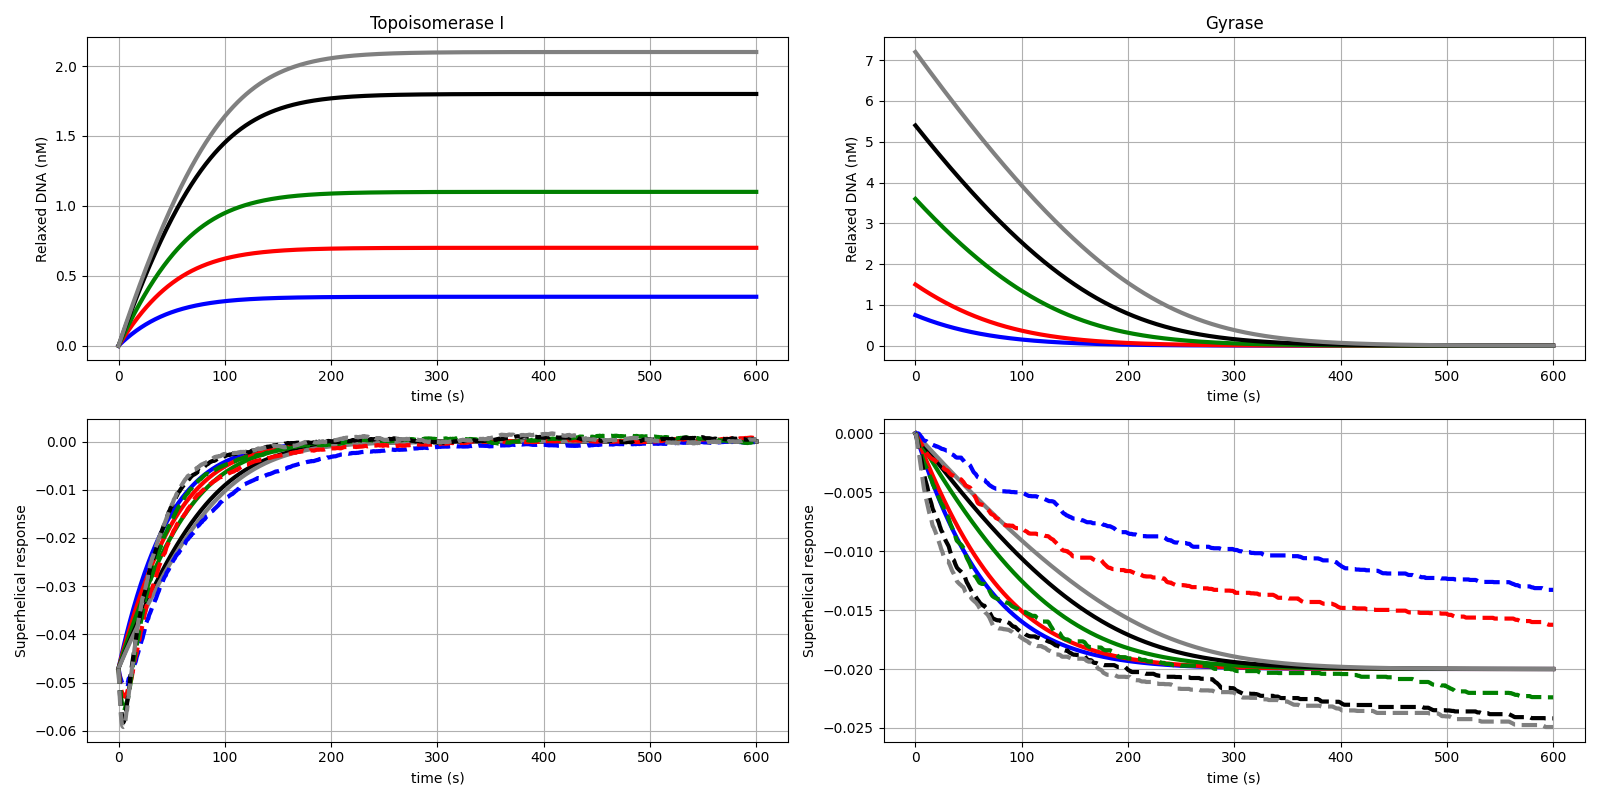
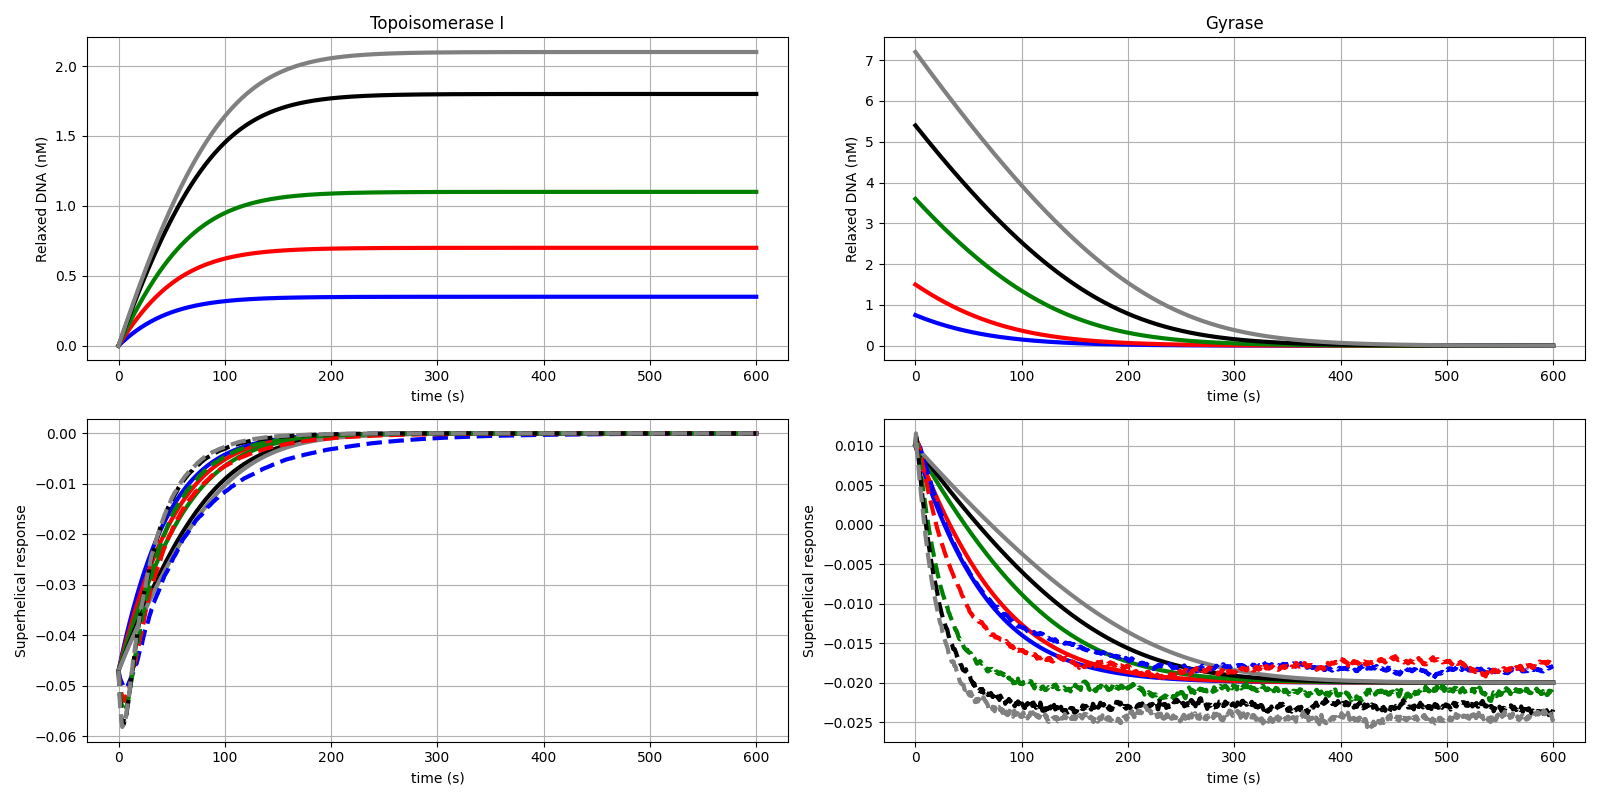
Topoisomerase calibration is ready and works. Also the new effect models TopoisomeraseLinearEffect describe more accurately experimental results, just needs to do some more research regarding initial parameters (read the TODO's). And should continue tidying up circuit.py

diff --git a/TORCphysics/calibration/topo_stochastic/Experimental_calibration/Linear_Effect/gyrase_calibration.py b/TORCphysics/calibration/topo_stochastic/Experimental_calibration/Linear_Effect/gyrase_calibration.py
@@ -1,5 +1,5 @@
 import numpy as np
-from hyperopt import tpe, hp, fmin
+from hyperopt import tpe, hp, fmin, Trials
 import pandas as pd
 import topo_calibration_tools as tct
 import sys
@@ -43,31 +43,33 @@ continuation = False
 mm = 'uniform'
 
 # For parallelization and calibration
-n_simulations = 120
-tests = 120  # number of tests for parametrization
+n_simulations = 48 #96 #120
+tests = 150  # number of tests for parametrization
 
 # Molecule/model to calibrate
 # -----------------------------------
 mol_name = 'gyrase'
 mol_type = 'environmental'
 mol_binding_model_name = 'GyraseRecognition'
-mol_effect_model_name = 'GyraseUniform'
+mol_effect_model_name = 'TopoisomeraseLinearEffect'
 mol_unbinding_model_name = 'PoissonUnBinding'
+mol_sigma0 = -0.02
+
 
 # RANGES FOR RANDOM SEARCH
 # -----------------------------------
 # Gyrase ranges
 file_out = mol_name + '_calibration'
 k_on_min = 0.001
-k_on_max = 0.01
-k_off_min = 0.1
+k_on_max = 0.05
+k_off_min = 0.001
 k_off_max = 1.0
 k_cat_min = -20.0  # Ranges to vary k_cat
-k_cat_max = -5.0
-width_min = 0.001
-width_max = 0.05
-threshold_min = 0.001
-threshold_max = 0.05
+k_cat_max = 20.0#-1.0
+width_min = 0.0  #0.001
+width_max = 1.0
+threshold_min = 0.0  # 0.001
+threshold_max = 1.0
 
 
 # Optimization functions
@@ -94,10 +96,12 @@ def objective_function(params):
     binding_model_name = mol_binding_model_name
     binding_oparams = {'k_on': params['k_on'], 'width': params['width'], 'threshold': params['threshold']}
     effect_model_name = mol_effect_model_name
-    effect_oparams = {'k_cat': params['k_cat']}
+    effect_oparams = {'k_cat': params['k_cat'], 'sigma0': mol_sigma0}
     unbinding_model_name = mol_unbinding_model_name
     unbinding_oparams = {'k_off': params['k_off']}
     concentration = mol_concentration
+
+    #  print('Params testing:', params)
 
     topo_variation = {'name': name, 'object_type': object_type,
                       'binding_model_name': binding_model_name, 'binding_oparams': binding_oparams,
@@ -166,6 +170,8 @@ original_stdout = sys.stdout
 # Define the file where you want to save the output
 output_file_path = file_out + '.info'
 
+trials = Trials()
+
 # Open the file in write mode
 with open(output_file_path, 'w') as f:
     # Redirect the standard output to the file
@@ -183,7 +189,8 @@ with open(output_file_path, 'w') as f:
         fn=objective_function,  # Objective Function to optimize
         space=space,  # Hyperparameter's Search Space
         algo=tpe.suggest,  # Optimization algorithm (representative TPE)
-        max_evals=tests  # Number of optimization attempts
+        max_evals=tests,  # Number of optimization attempts
+        trials=trials
     )
 
     print(" ")
@@ -192,3 +199,14 @@ with open(output_file_path, 'w') as f:
 
 best_df = pd.DataFrame.from_dict([best])
 best_df.to_csv(file_out + '.csv', index=False, sep=',')
+
+#vals_dict = {}
+#my_dict = {'name': 'John', 'age': 30, 'city': 'New York'}
+
+#for key, value in trials.vals.items():
+
+#    print(f"{key}: {value}")
+
+#for
+vals_df = pd.DataFrame(data =trials.vals)
+vals_df.to_csv(file_out + '_space.csv', index=False, sep=',')

diff --git a/TORCphysics/calibration/topo_stochastic/Experimental_calibration/Linear_Effect/plot_calibration.py b/TORCphysics/calibration/topo_stochastic/Experimental_calibration/Linear_Effect/plot_calibration.py
@@ -45,8 +45,8 @@ n_simulations = 120
 topoI_name = 'topoI'
 topoI_type = 'environmental'
 topoI_binding_model_name = 'TopoIRecognition'
-#topoI_effect_model_name = 'TopoisomeraseLinearEffect'
-topoI_effect_model_name = 'TopoisomeraseLinearRandEffect'
+topoI_effect_model_name = 'TopoisomeraseLinearEffect'
+#topoI_effect_model_name = 'TopoisomeraseLinearRandEffect'
 topoI_unbinding_model_name = 'PoissonUnBinding'
 topoI_calibration_file = 'topoI_calibration.csv'
 topoI_sigma0 = 0.0
@@ -56,9 +56,11 @@ topoI_sigma0 = 0.0
 gyrase_name = 'gyrase'
 gyrase_type = 'environmental'
 gyrase_binding_model_name = 'GyraseRecognition'
-gyrase_effect_model_name = 'GyraseUniform'
+gyrase_effect_model_name = 'TopoisomeraseLinearEffect'
+#gyrase_effect_model_name = 'TopoisomeraseLinearRandEffect'
 gyrase_unbinding_model_name = 'PoissonUnBinding'
 gyrase_calibration_file = 'gyrase_calibration.csv'
+gyrase_sigma0 = -0.02
 
 # FIGURE
 # -----------------------------------
@@ -129,10 +131,12 @@ def gyrase_objective_function(params):
     name = gyrase_name
     object_type = gyrase_type
     binding_model_name = gyrase_binding_model_name
-    binding_oparams = {'k_on': float(params['k_on'][0]), 'width': float(params['width'][0]),
+#    binding_oparams = {'k_on': float(params['k_on'][0]), 'width': float(params['width'][0]),
+#                       'threshold': float(params['threshold'][0])}
+    binding_oparams = {'k_on': 0.05, 'width': float(params['width'][0]),
                        'threshold': float(params['threshold'][0])}
     effect_model_name = gyrase_effect_model_name
-    effect_oparams = {'k_cat': float(params['k_cat'][0])}
+    effect_oparams = {'k_cat': float(params['k_cat'][0]), 'sigma0': gyrase_sigma0}
     unbinding_model_name = gyrase_unbinding_model_name
     unbinding_oparams = {'k_off': float(params['k_off'][0])}
     concentration = gyrase_concentration
@@ -215,7 +219,7 @@ for count, initial_substrate in enumerate(initial_substrates):
 # Product = Fluorescent or Relaxed DNA
 # Substrate = Concentration of Supercoiled DNAs
 initial_sigma = -0.02  # Is actually the other way around, but there's an error somewhere but I'm lazy to find it
-final_sigma = 0.0
+final_sigma = 0.01  # It was 0.0, but assuming that you have some intercalators, maybe it increases sigma a bit
 initial_product = 4.0
 initial_substrate = .75
 initial_substrates = [0.75, 1.50, 3.6, 5.4, 7.2]
@@ -246,7 +250,7 @@ for count, initial_substrate in enumerate(initial_substrates):
     exp_superhelicals.append(superhelical)
 
 # ---------------------------------------------------------------------------------------------------------------------
-# Plot simulation example for TopoI
+# Plot simulation example for Gyrase
 # ---------------------------------------------------------------------------------------------------------------------
 initial_sigma = final_sigma # A trick
 params = pd.read_csv(gyrase_calibration_file).to_dict()

diff --git a/TORCphysics/calibration/topo_stochastic/Experimental_calibration/Uniform_Effect/gyrase_calibration.py b/TORCphysics/calibration/topo_stochastic/Experimental_calibration/Uniform_Effect/gyrase_calibration.py
@@ -1,5 +1,5 @@
 import numpy as np
-from hyperopt import tpe, hp, fmin
+from hyperopt import tpe, hp, fmin, Trials
 import pandas as pd
 import topo_calibration_tools as tct
 import sys
@@ -15,6 +15,8 @@ import sys
 # Let's run examples of the actual calibration. Remember that in your simulation, you need to consider the
 # density of the plasmid concentration as well, so you have many concentrations to test.
 
+# TODO: In the future use trials = Trials() - from hyperopt import tpe, hp, fmin, Trials.
+#  This would helpfully will give you a list of parameters explored
 
 # ----------------------------------------------------------------------------------------------------------------------
 # Initial conditions
@@ -36,15 +38,13 @@ environment_filename = 'gyrase_environment.csv'
 # Experimental concentration of topoisomerases
 mol_concentration = 44.6
 
-tm = 'stochastic'
 output_prefix = 'test0'
 series = True
 continuation = False
-mm = 'uniform'
 
 # For parallelization and calibration
-n_simulations = 120
-tests = 120  # number of tests for parametrization
+n_simulations = 12#0
+tests = 12#0  # number of tests for parametrization
 
 # Molecule/model to calibrate
 # -----------------------------------
@@ -53,7 +53,7 @@ mol_type = 'environmental'
 mol_binding_model_name = 'GyraseRecognition'
 mol_effect_model_name = 'TopoisomeraseLinearEffect'
 mol_unbinding_model_name = 'PoissonUnBinding'
-mol_sigma0 = 0.0
+mol_sigma0 = -0.02
 
 
 # RANGES FOR RANDOM SEARCH
@@ -153,7 +153,9 @@ for count, initial_substrate in enumerate(initial_substrates):
 
 # Optimization
 # ==================================================================================================================
-initial_sigma = final_sigma
+#initial_sigma = final_sigma
+
+trials = Trials()
 
 space = {
     'k_cat': hp.uniform('k_cat', k_cat_min, k_cat_max),
@@ -185,7 +187,8 @@ with open(output_file_path, 'w') as f:
         fn=objective_function,  # Objective Function to optimize
         space=space,  # Hyperparameter's Search Space
         algo=tpe.suggest,  # Optimization algorithm (representative TPE)
-        max_evals=tests  # Number of optimization attempts
+        max_evals=tests,  # Number of optimization attempts
+        trials=trials
     )
 
     print(" ")

diff --git a/TORCphysics/src/effect_model.py b/TORCphysics/src/effect_model.py
@@ -418,6 +418,7 @@ class TopoisomeraseLinearEffect(EffectModel):
         return Effect(index=index, position=position, twist_left=twist_left, twist_right=twist_right)
 
 
+# TODO: Make the random parameter an input.
 class TopoisomeraseLinearRandEffect(EffectModel):
 
     # def __init__(self, name, filename):
